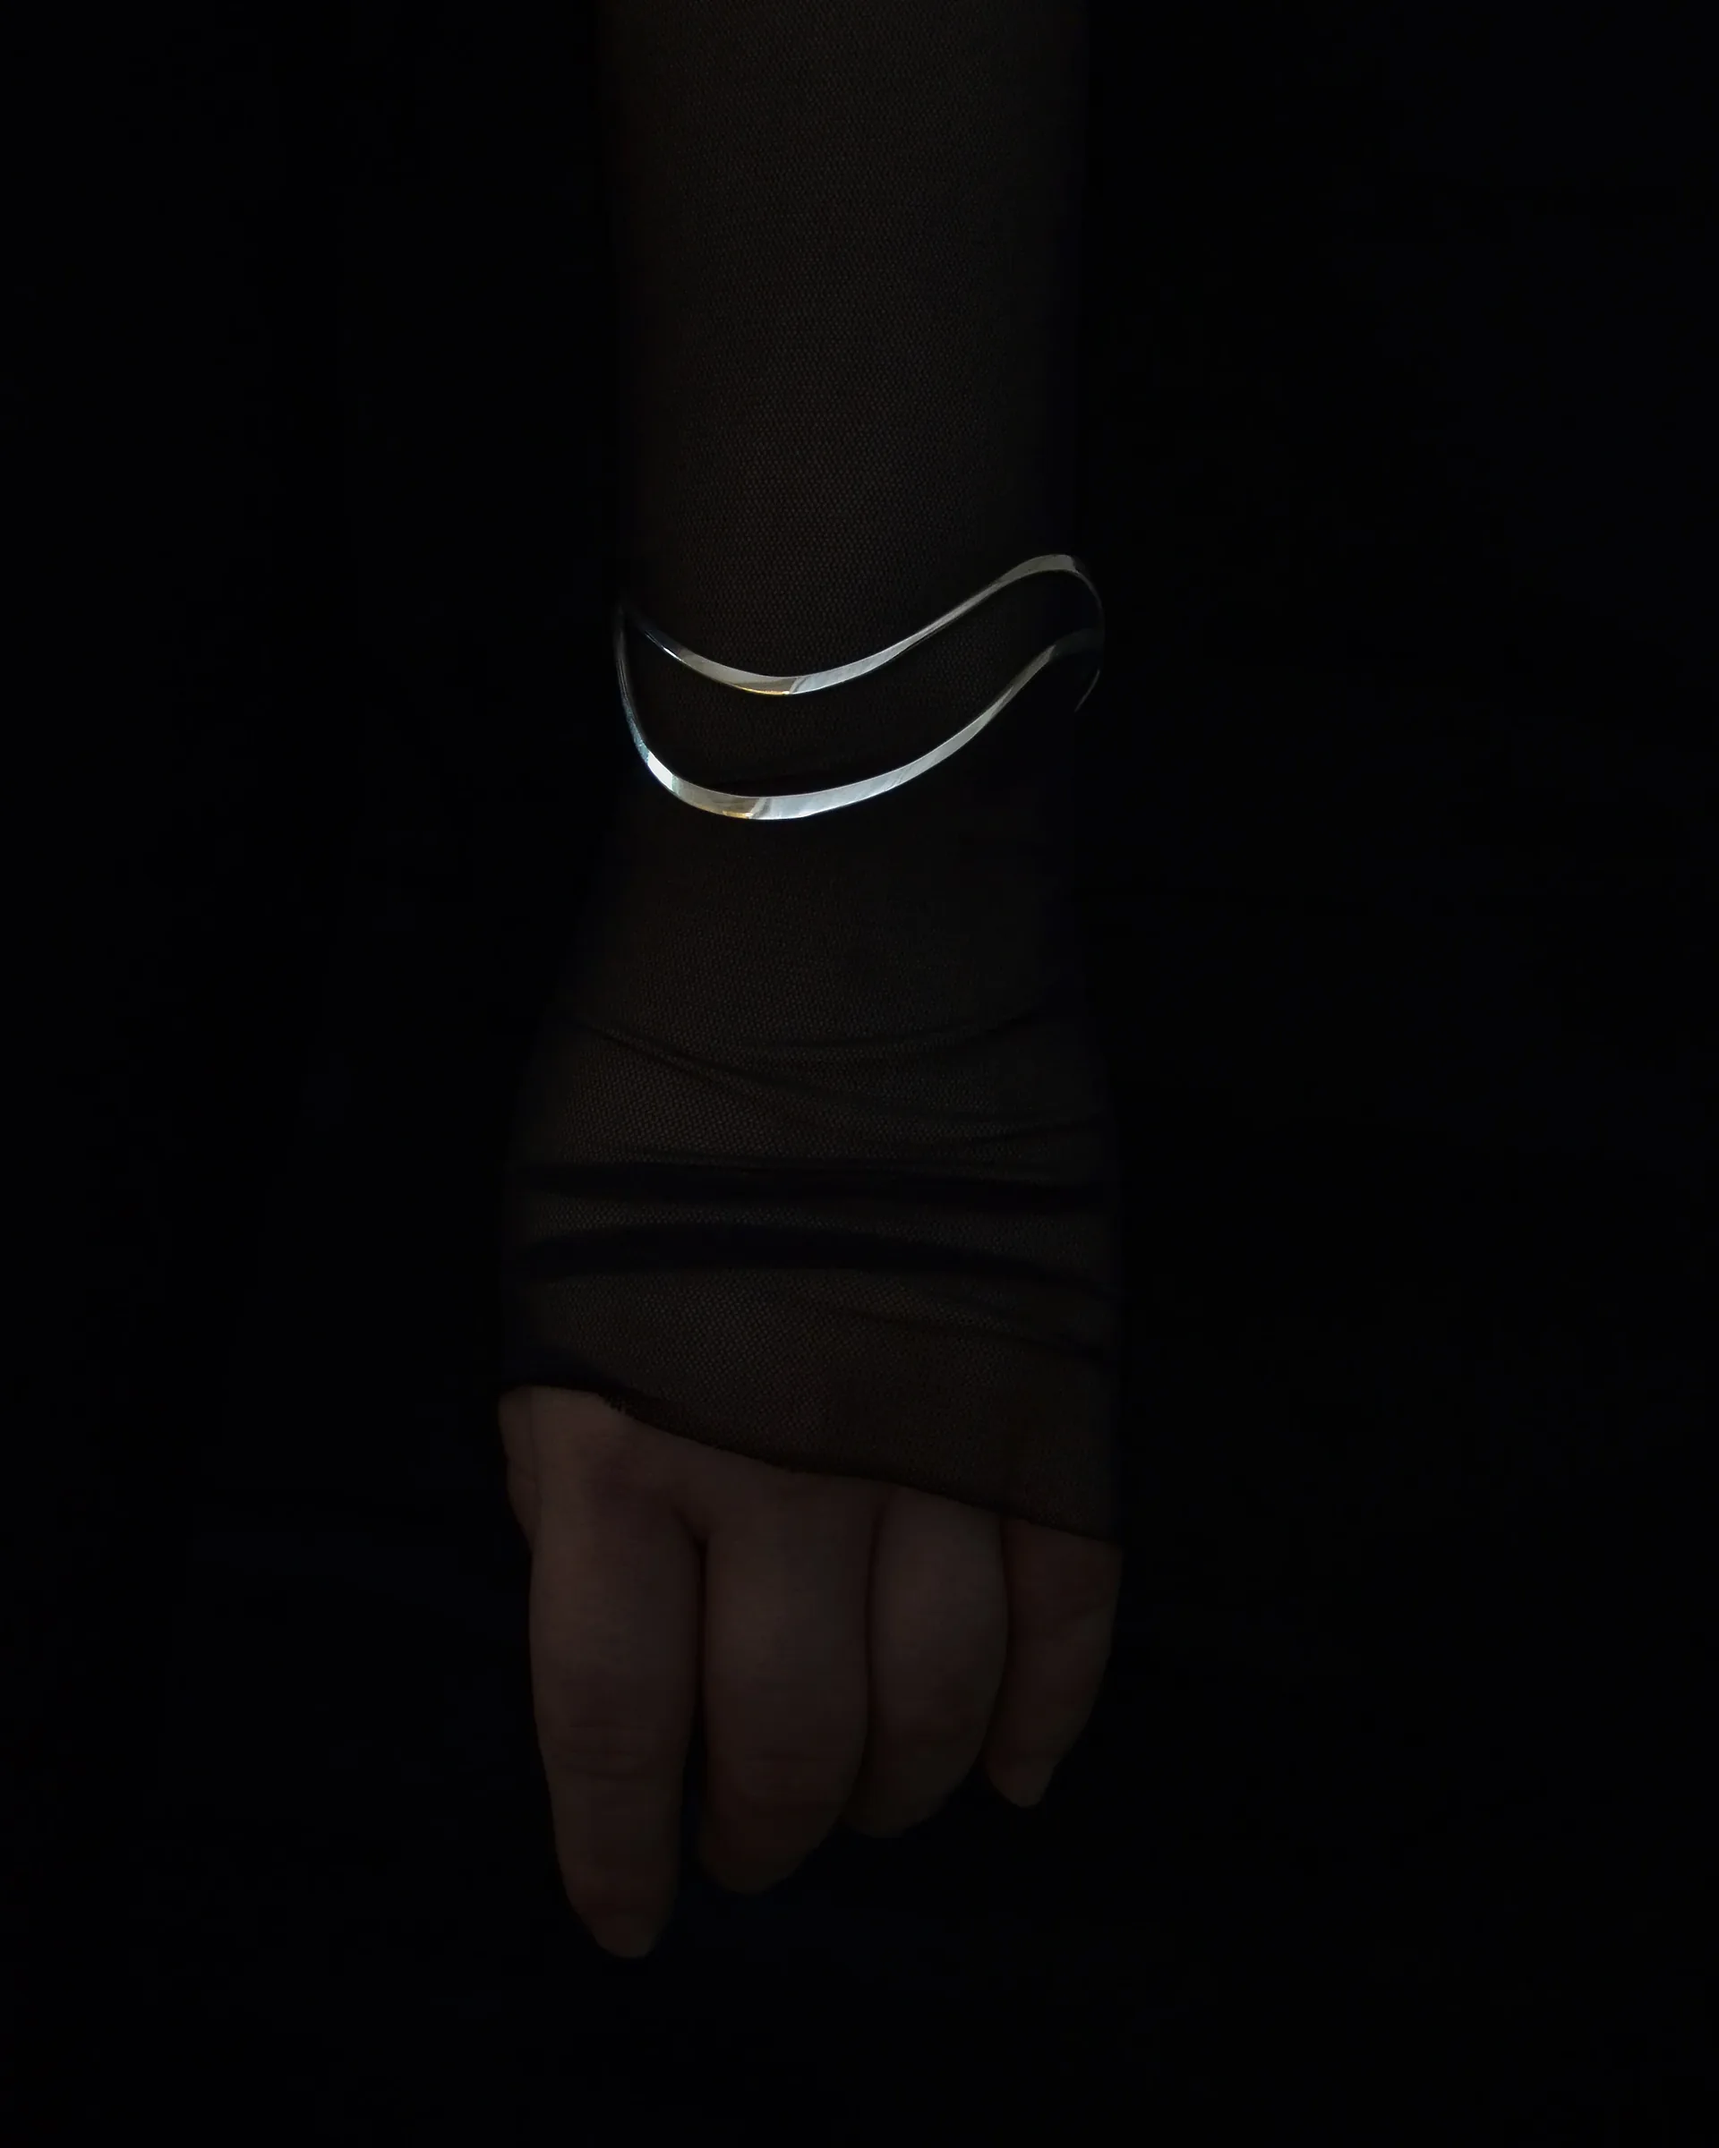
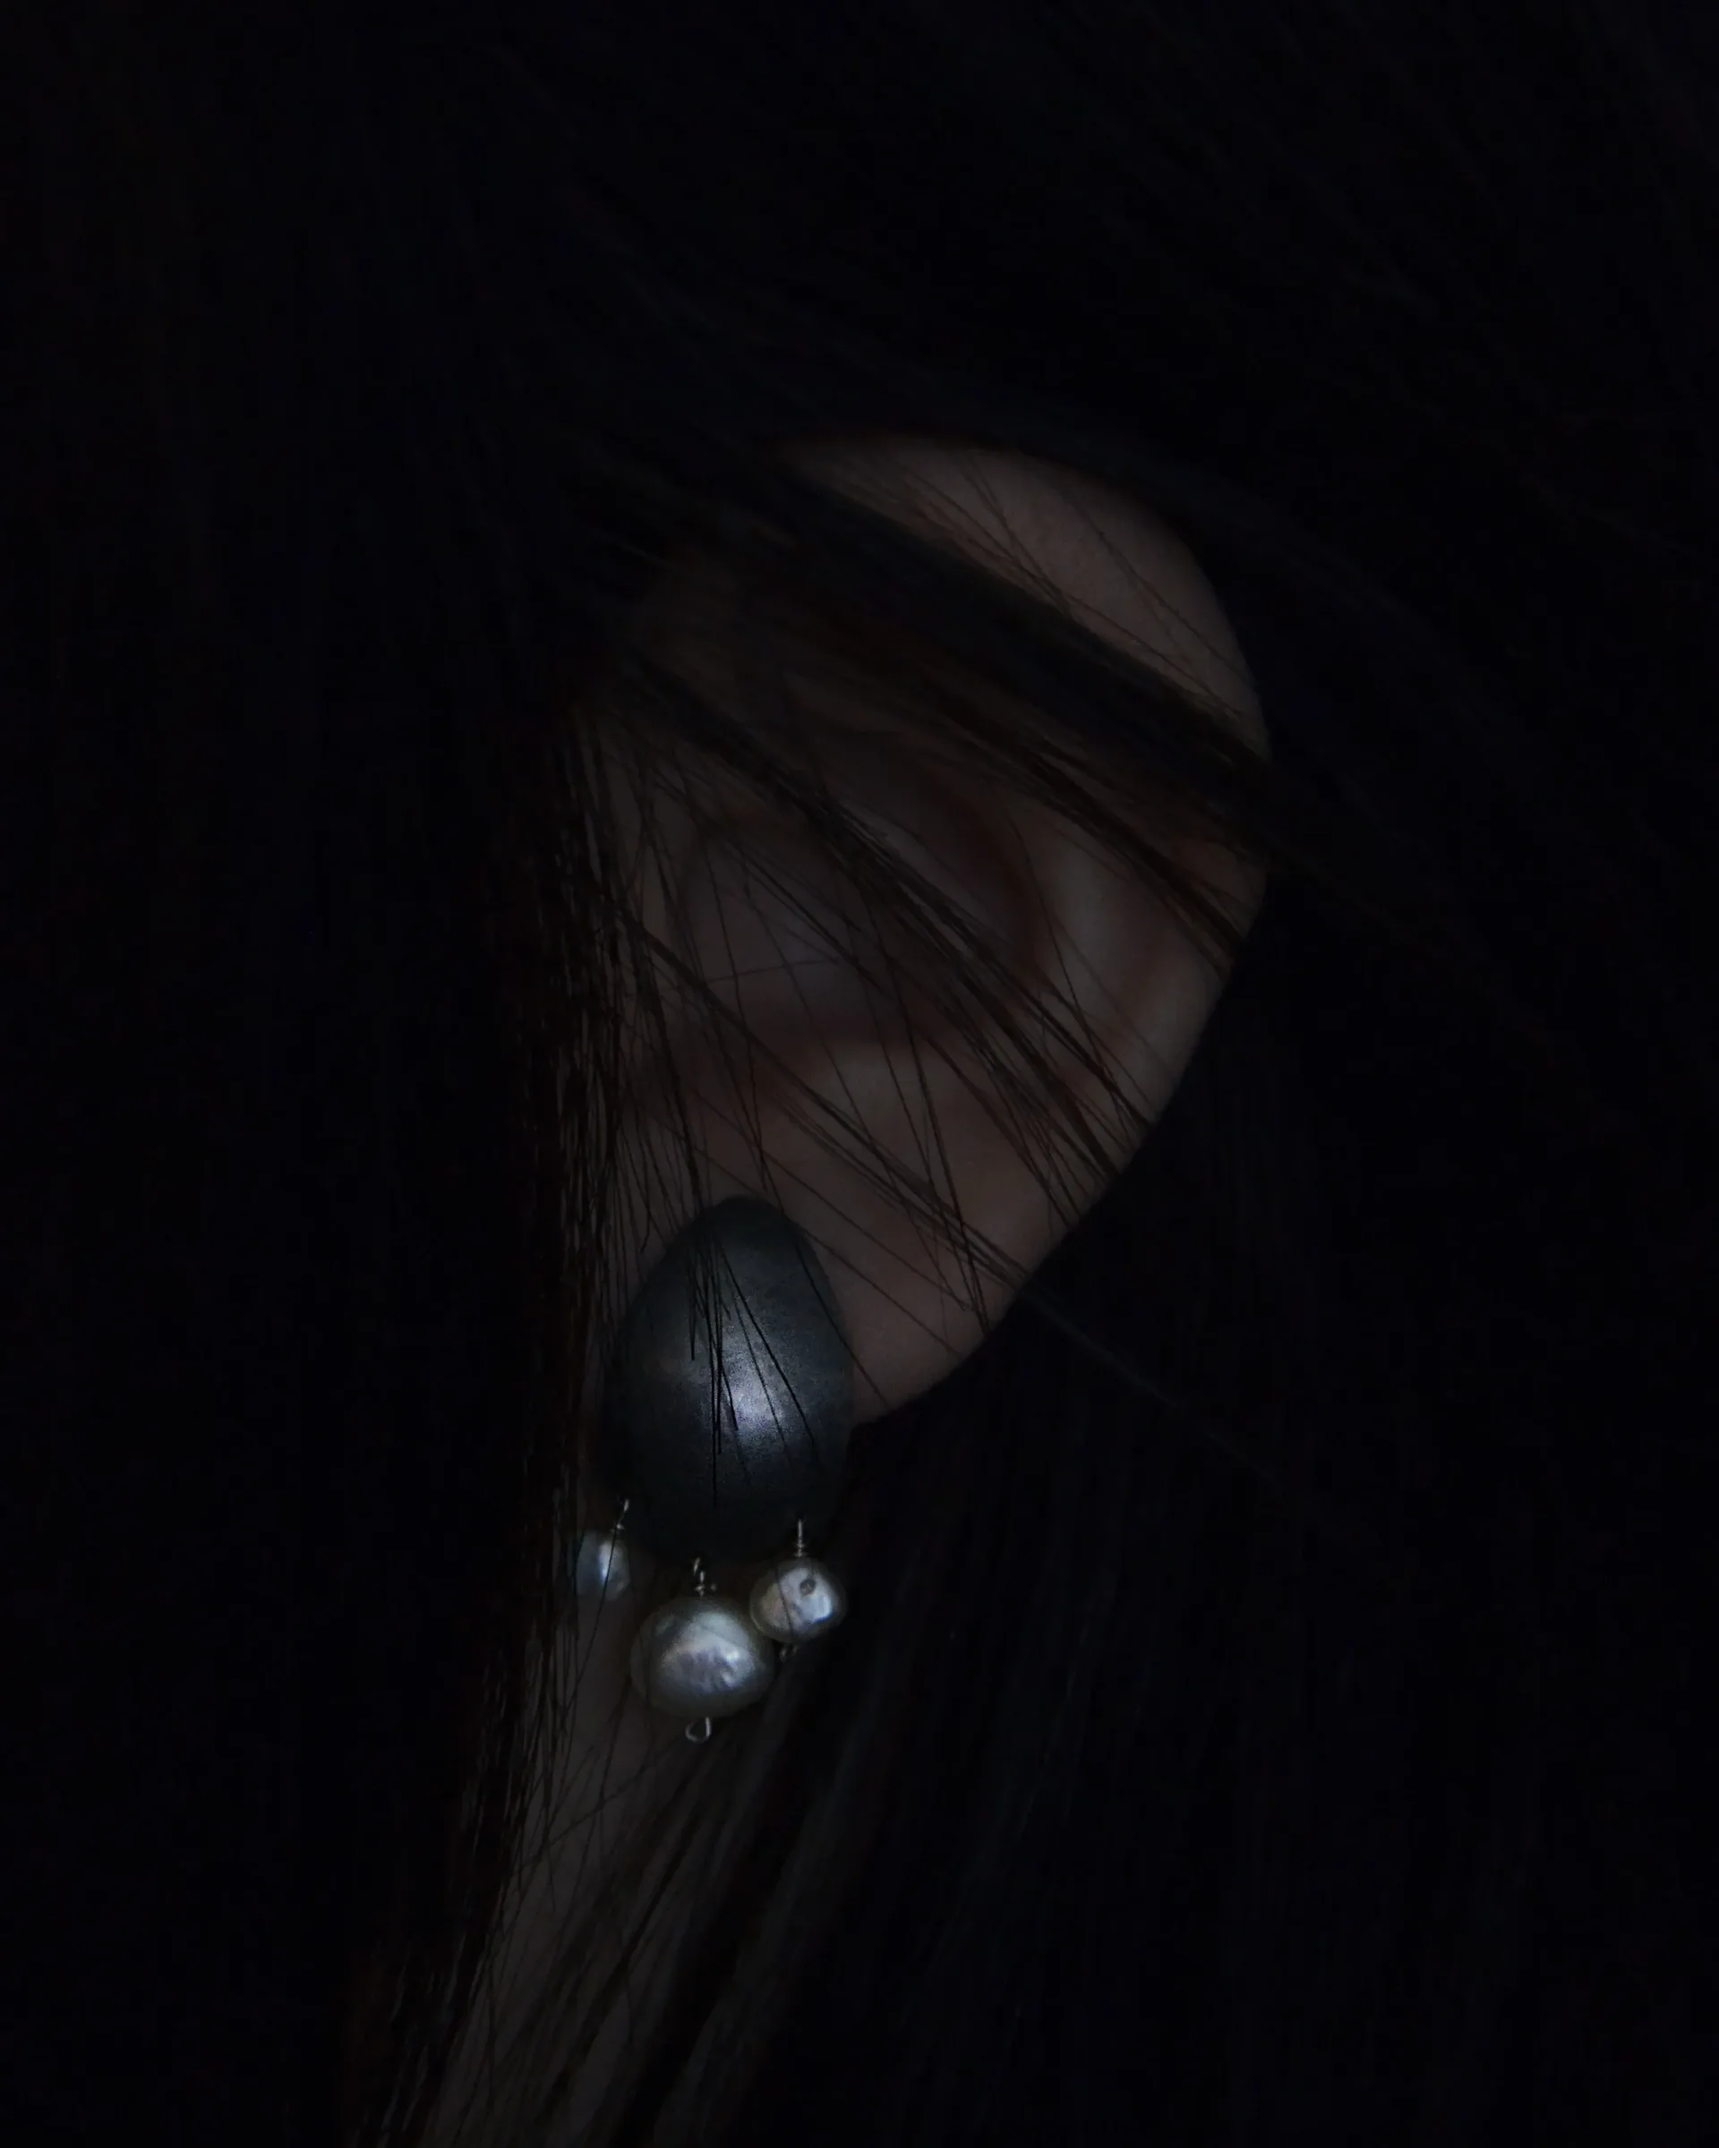
Sync Mamika Suzuki photoshoot gallery with updated folder

diff --git a/index.html b/index.html
@@ -116,7 +116,7 @@
           <div class="item__dim" aria-hidden="true"></div><div class="item__title" aria-hidden="true">Mamika Suzuki — Brand identity</div>
         </div>
         <div class="item" id="digital-6" tabindex="0" data-category="digital" data-title="Mamika Suzuki — Photography" data-gallery="mamikashoot">
-          <img src="assets/images/mamikashoot/01.webp?v=4bd8cbf6" alt="Mamika Suzuki — Photography" style="object-position:50% 35%" width="1920" height="2400" loading="lazy" decoding="async" onerror="this.onerror=null;this.src='assets/images/mamikashoot/fb/01.jpg?v=bfa47f1b'">
+          <img src="assets/images/mamikashoot/01.webp?v=86fa6181" alt="Mamika Suzuki — Photography" style="object-position:50% 35%" width="1920" height="2400" loading="lazy" decoding="async" onerror="this.onerror=null;this.src='assets/images/mamikashoot/fb/01.jpg?v=bfa47f1b'">
           <div class="item__dim" aria-hidden="true"></div><div class="item__title" aria-hidden="true">Mamika Suzuki — Photography</div>
         </div>
       </div>

diff --git a/gallery-data.js b/gallery-data.js
@@ -1156,13 +1156,13 @@ window.GALLERIES = {
   "hover": "Mamika Suzuki — Photography",
   "title": "Mamika Suzuki E-commerce Photography — Client project",
   "thumb": {
-   "src": "assets/images/mamikashoot/01.webp?v=4bd8cbf6",
+   "src": "assets/images/mamikashoot/01.webp?v=86fa6181",
    "w": 1920,
    "h": 2400,
    "fb": "assets/images/mamikashoot/fb/01.jpg?v=bfa47f1b"
   },
   "main": {
-   "src": "assets/images/mamikashoot/01.webp?v=4bd8cbf6",
+   "src": "assets/images/mamikashoot/01.webp?v=86fa6181",
    "w": 1920,
    "h": 2400,
    "fb": "assets/images/mamikashoot/fb/01.jpg?v=bfa47f1b"
@@ -1175,7 +1175,7 @@ window.GALLERIES = {
     "fb": "assets/images/mamikashoot/fb/02.jpg?v=e660991f"
    },
    {
-    "src": "assets/images/mamikashoot/03.webp?v=86fa6181",
+    "src": "assets/images/mamikashoot/03.webp?v=4bd8cbf6",
     "w": 1920,
     "h": 2400,
     "fb": "assets/images/mamikashoot/fb/03.jpg?v=18a29a01"
